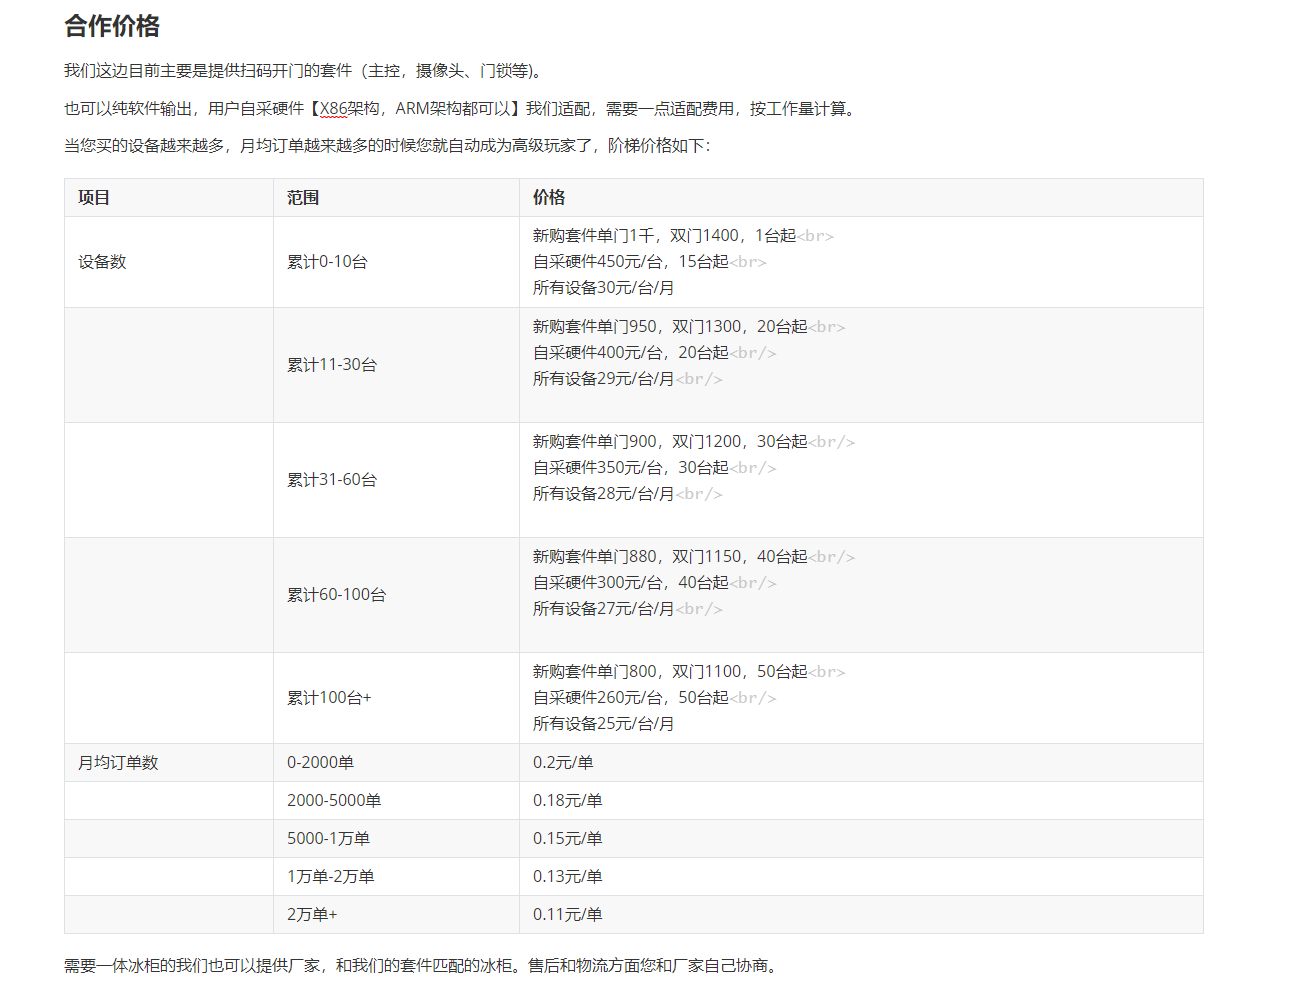
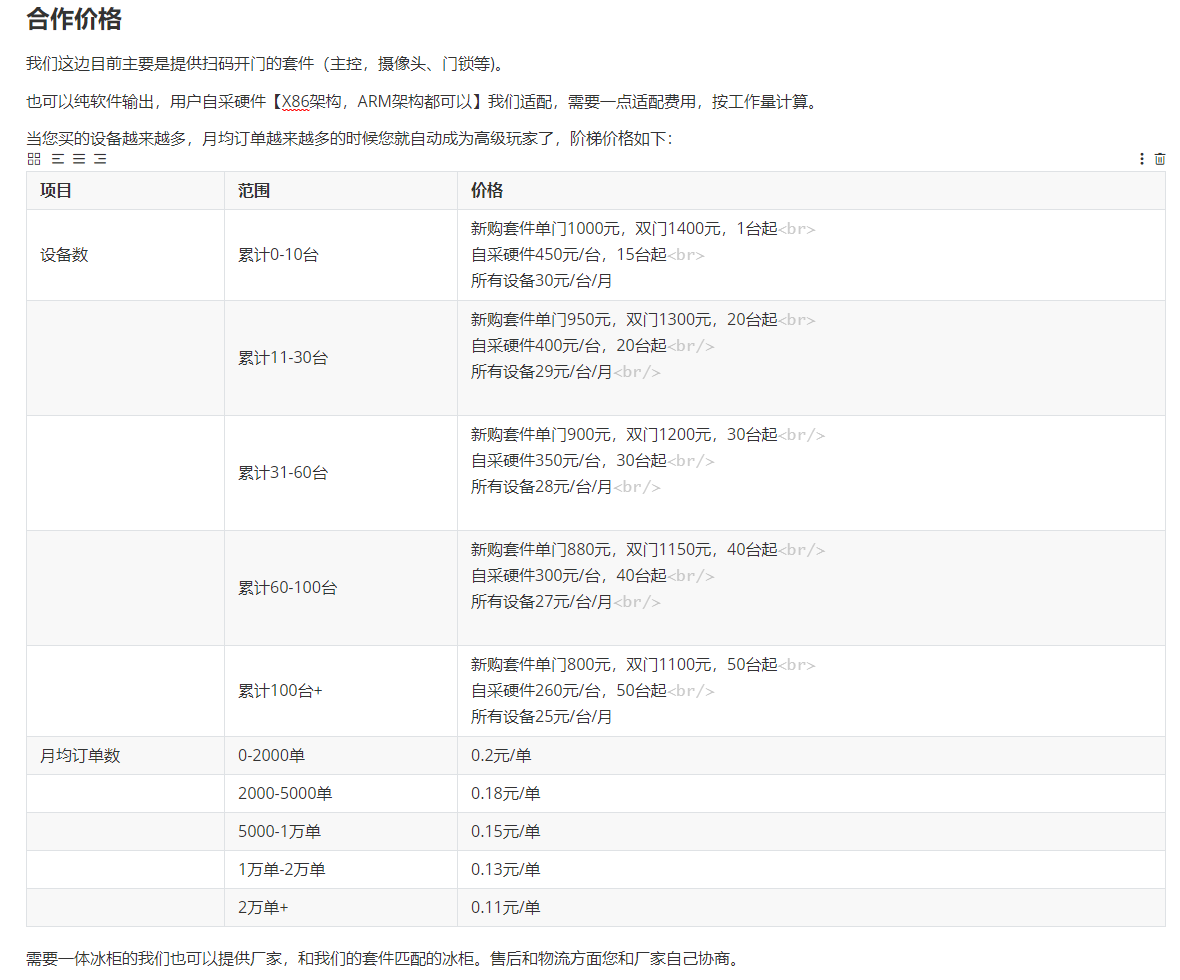
readme

diff --git a/PRICE.md b/PRICE.md
@@ -3,22 +3,24 @@
 
 ### 合作价格
 
-我们这边目前主要是提供扫码开门的套件（主控，摄像头、门锁等)，也可以纯软件输出，用户自采硬件【X86架构，ARM架构都可以】我们适配，需要一点适配费用，按工作量计算。
-零星玩家是基础价单门1千，双门1千4，除此之外还有每台设备每月收30元的技术维护费（主要用于服务器维护，兼职回报），和每单0.2元的识别费用（动态视觉识别需要耗大量GPU，见谅）。
+我们这边目前主要是提供扫码开门的套件（主控，摄像头、门锁等)。
+
+也可以纯软件输出，用户自采硬件【X86架构，ARM架构都可以】我们适配，需要一点适配费用，按工作量计算。
+
 当您买的设备越来越多，月均订单越来越多的时候您就自动成为高级玩家了，阶梯价格如下：
 
 | 项目       | 范围         | 价格                                                         |
 | ---------- | ------------ | ------------------------------------------------------------ |
-| 设备数     | 累计0-10台   | 新购套件单门1千，双门1400，1台起<br>自采硬件450元/台，15台起<br>所有设备30元/台/月 |
+| 设备数     | 累计0-10台   | 新购套件单门1000元，双门1400元，1台起<br>自采硬件450元/台，15台起<br>所有设备30元/台/月 |
 |            | 累计11-30台  | 新购套件单门950，双门1300，20台起<br>自采硬件400元/台，20台起<br/>所有设备29元/台/月<br/> |
 |            | 累计31-60台  | 新购套件单门900，双门1200，30台起<br/>自采硬件350元/台，30台起<br/>所有设备28元/台/月<br/> |
 |            | 累计60-100台 | 新购套件单门880，双门1150，40台起<br/>自采硬件300元/台，40台起<br/>所有设备27元/台/月<br/> |
 |            | 累计100台+   | 新购套件单门800，双门1100，50台起<br>自采硬件260元/台，50台起<br/>所有设备25元/台/月 |
-| 月均订单数 | 0-2000单     | 0.2元/单                                                       |
-|            | 2000-5000单  | 0.18元/单                                                     |
-|            | 5000-1万单   | 0.15元/单                                                     |
-|            | 1万单-2万单  | 0.13元/单                                                     |
-|            | 2万单+       | 0.11元/单                                                     |
+| 月均订单数 | 0-2000单     | 0.2元/单                                                     |
+|            | 2000-5000单  | 0.18元/单                                                    |
+|            | 5000-1万单   | 0.15元/单                                                    |
+|            | 1万单-2万单  | 0.13元/单                                                    |
+|            | 2万单+       | 0.11元/单                                                    |
 
 需要一体冰柜的我们也可以提供厂家，和我们的套件匹配的冰柜。售后和物流方面您和厂家自己协商。
 
